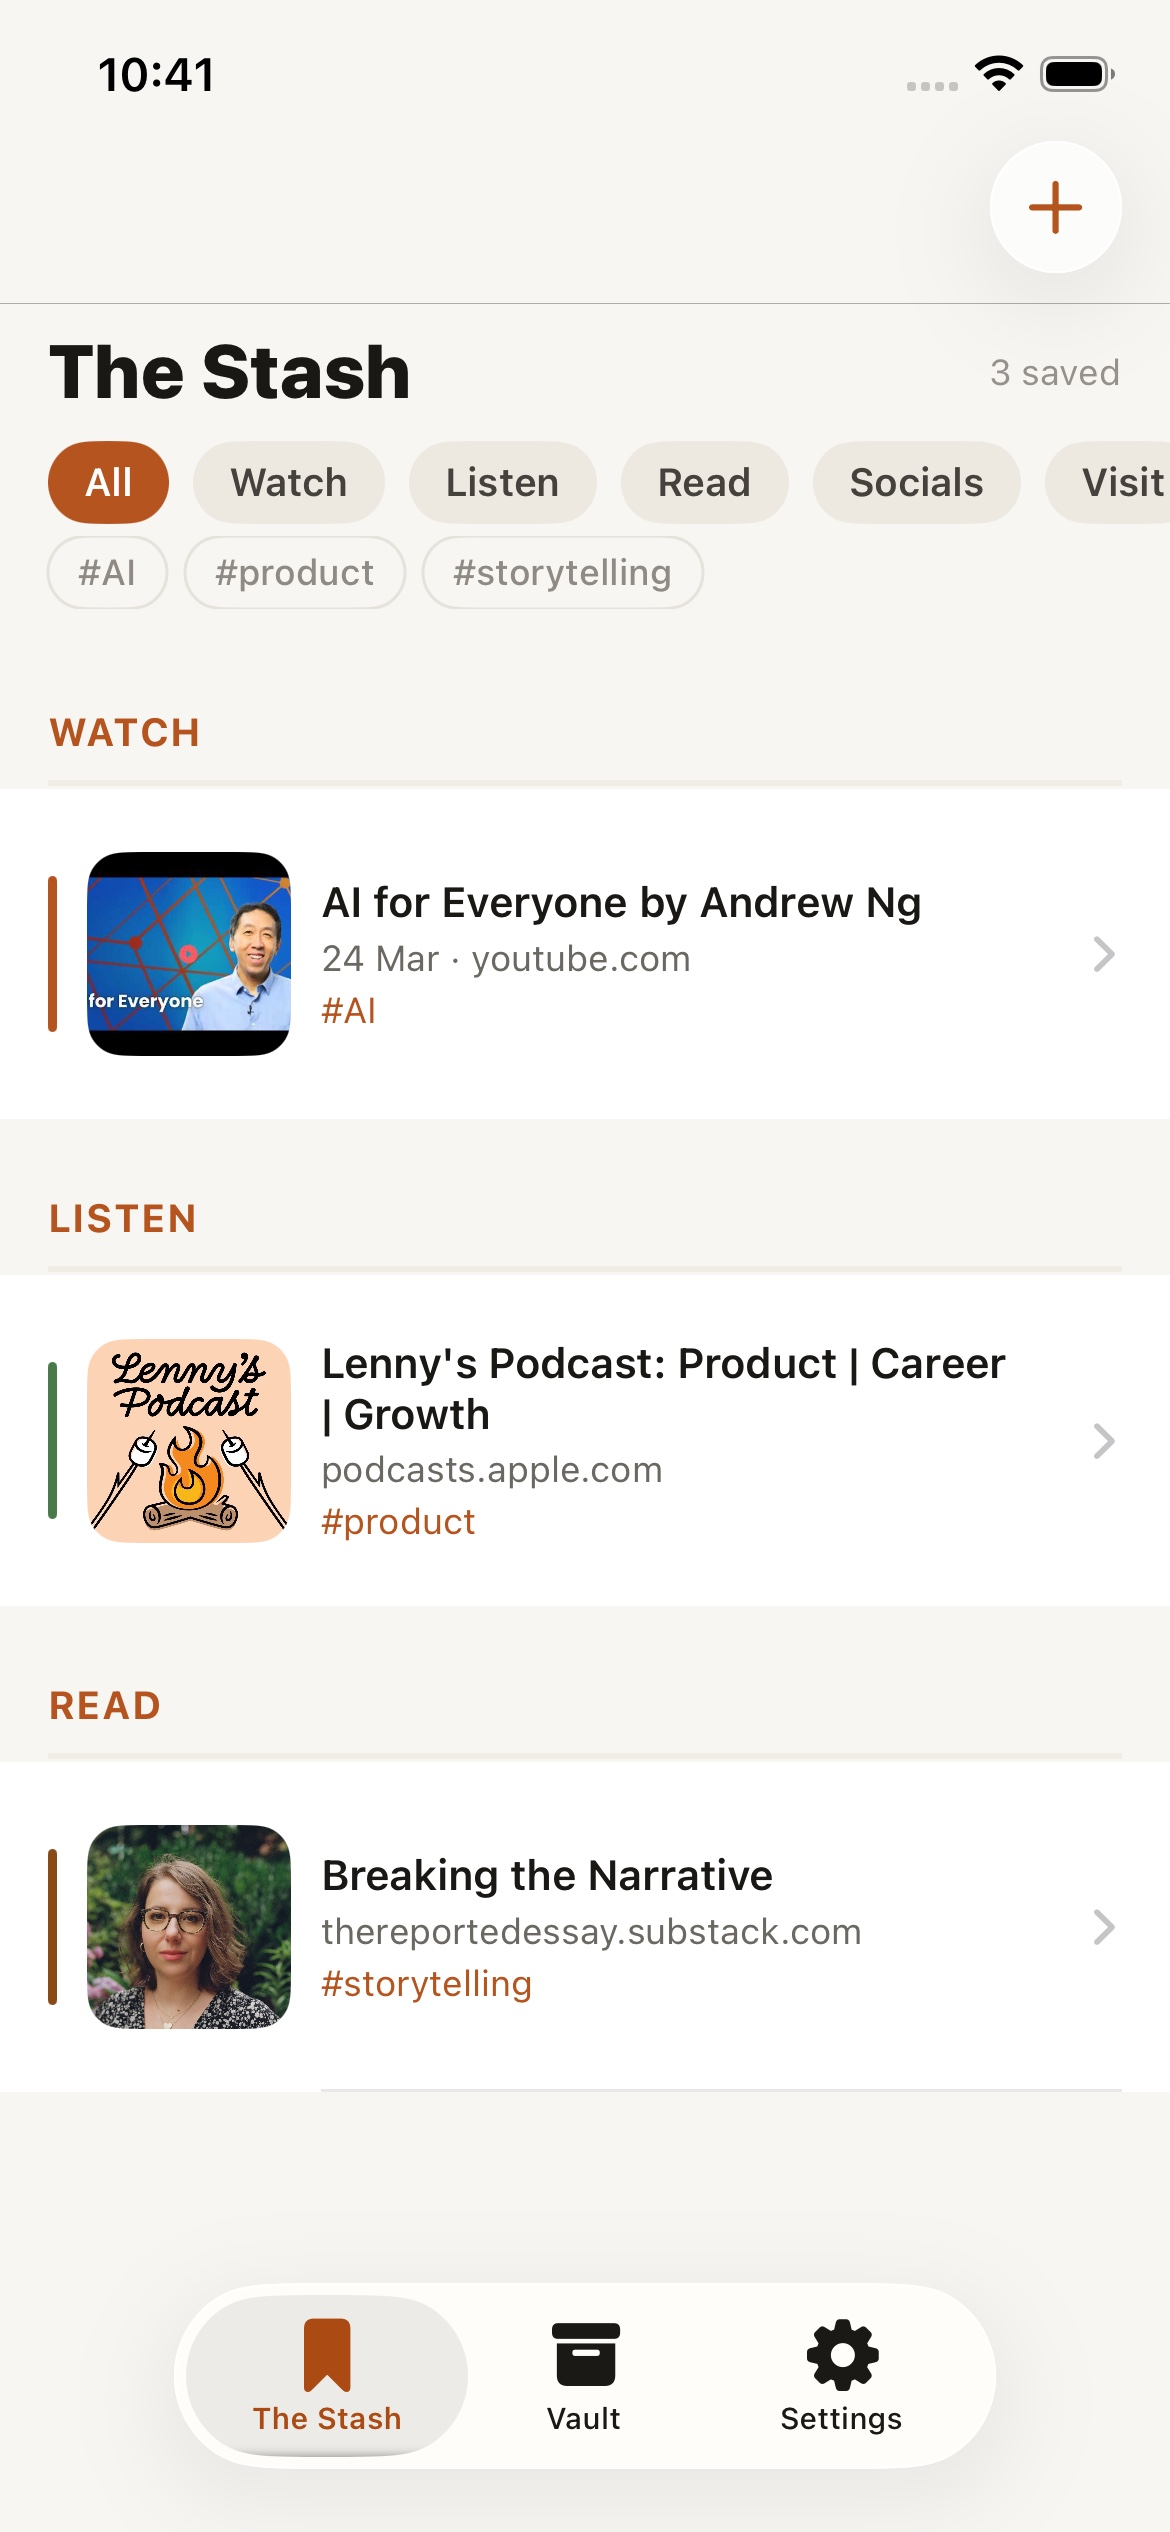
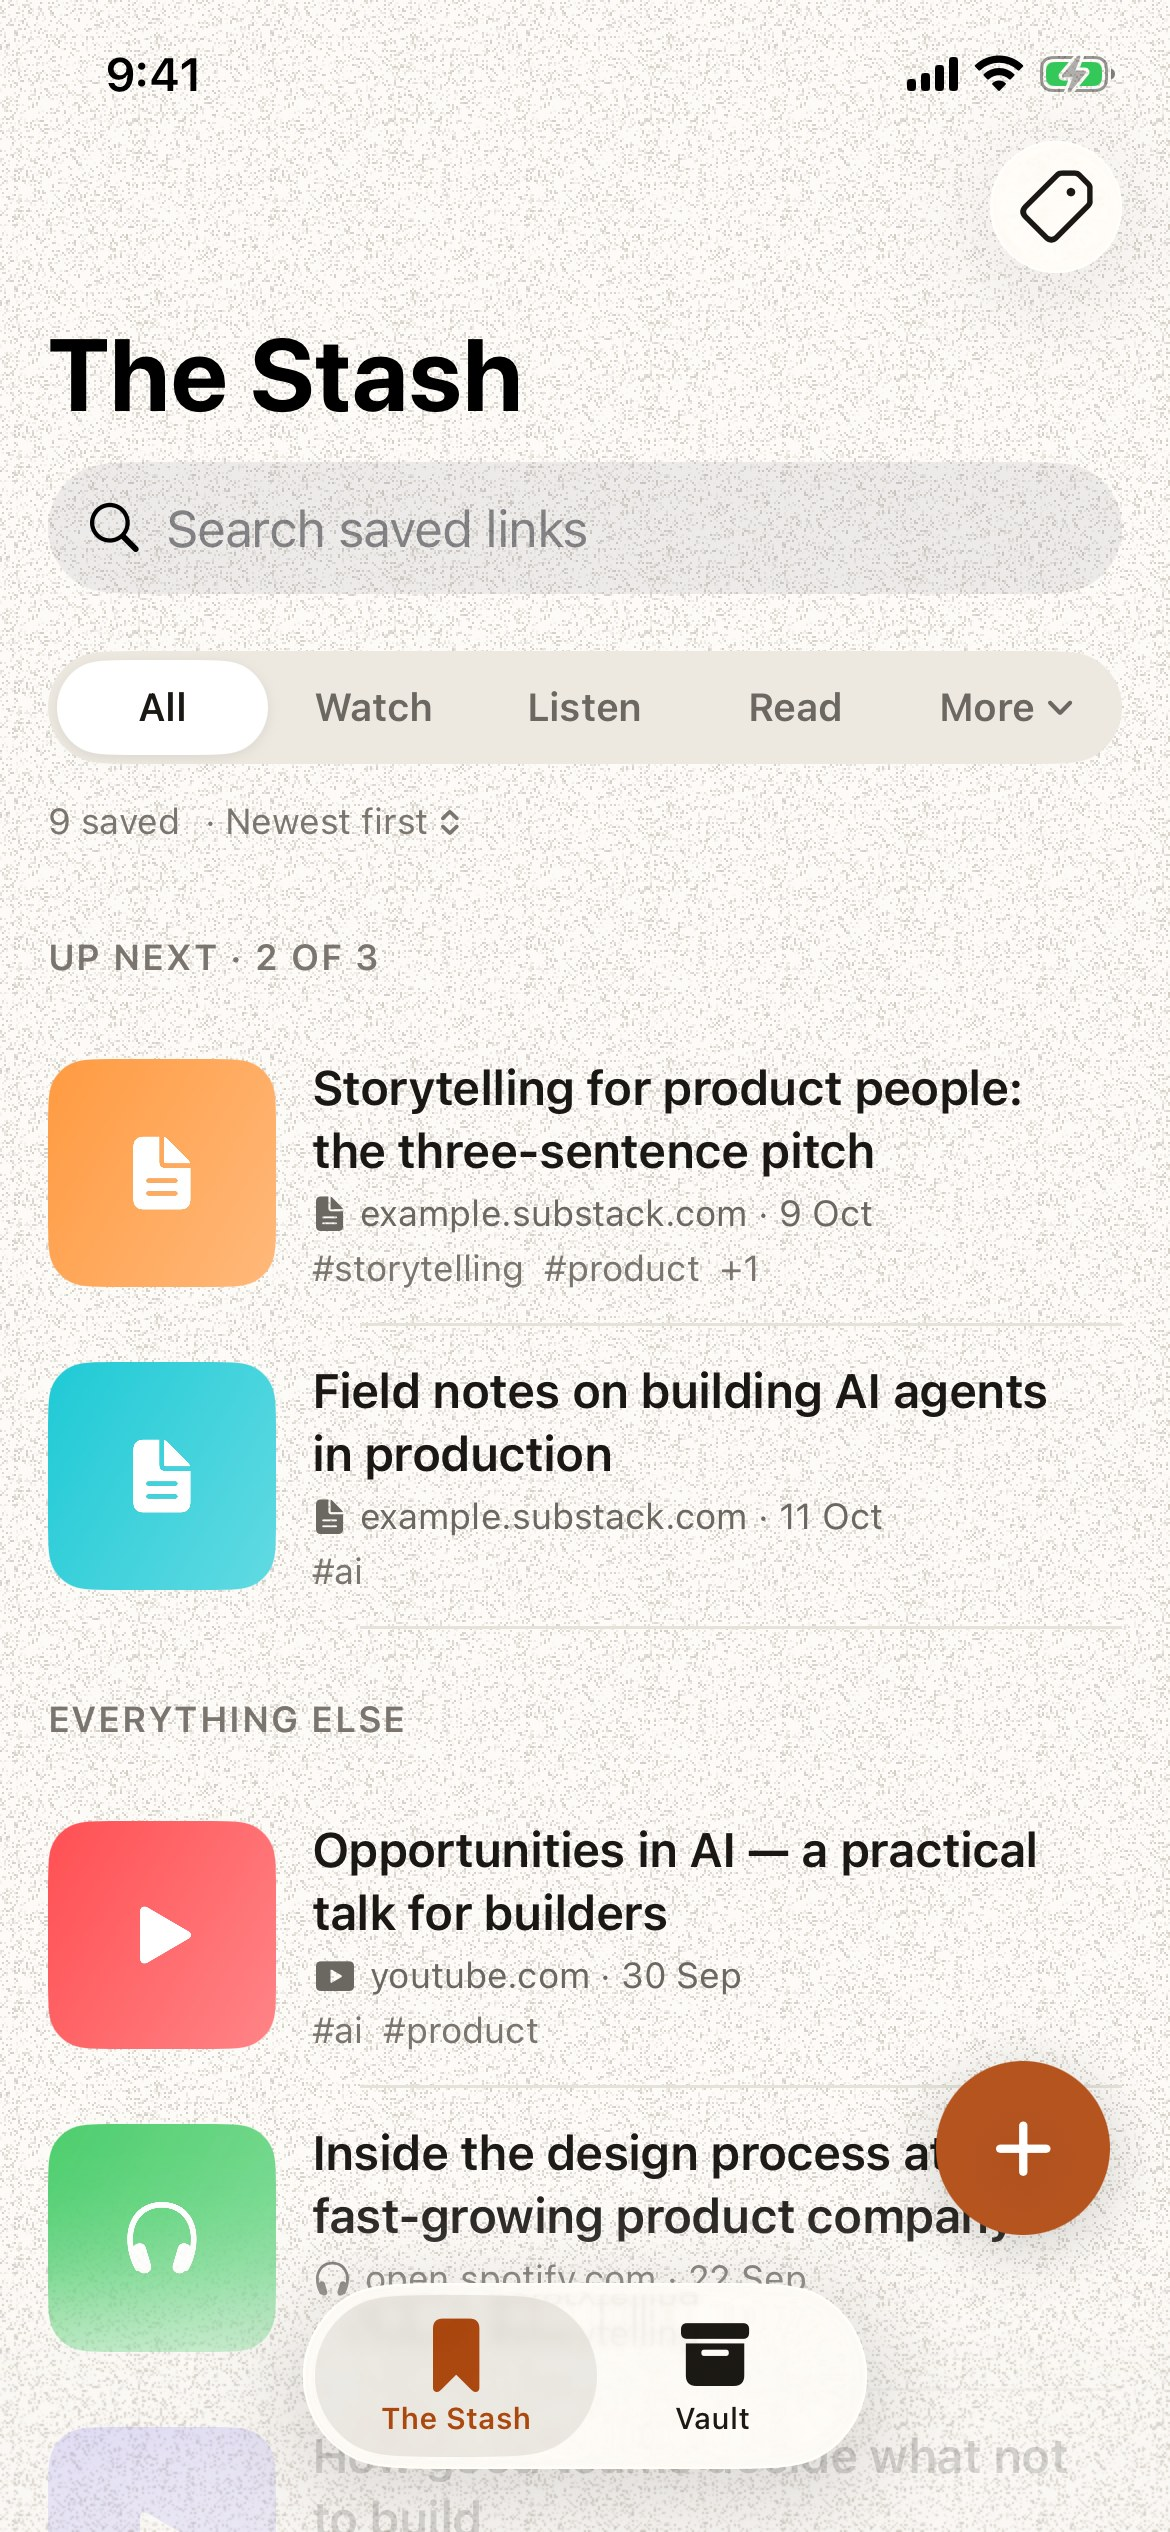
Refresh README screenshots and text for the new UI
New screenshots (list with Up next, Surprise me, detail, Vault, edit) and a
README covering search, Up next, Surprise me and the sort toggle; the old
Settings/daily recall screenshot and text are removed.

diff --git a/README.md b/README.md
@@ -1,25 +1,27 @@
 # Stash
 
-Save any link — a podcast, a YouTube video, a Spotify audiobook, a restaurant, a LinkedIn or X post — with its title, image, and a preview of the content pulled in automatically, so you don't forget about it. Tag it, edit it, mark it done once you've actually checked it out, and let Stash nudge you to revisit it later. Add links from inside the app, or straight from the Share Sheet in Safari/YouTube/Instagram/etc.
+Save any link — a podcast, a YouTube video, a Spotify audiobook, a restaurant, a LinkedIn or X post — with its title, image, and a preview of the content pulled in automatically, so you don't forget about it. Tag it, pin the few things you want to get to next, search it, mark it done once you've actually checked it out, and let Stash pick something for you when you can't decide. Add links from inside the app, or straight from the Share Sheet in Safari/YouTube/Instagram/etc.
 
 <p>
-  <img src="screenshots/the-stash-mix.jpg" width="260" alt="The Stash list showing a Watch, Listen, and Read item together, each with its own tag — AI, product, and storytelling">
-  <img src="screenshots/link-detail.png" width="260" alt="Link detail view showing tags and a Vaulted badge">
-  <img src="screenshots/vault.png" width="260" alt="The Vault, filtered by tag">
+  <img src="screenshots/the-stash-mix.jpg" width="260" alt="The Stash on a warm paper background: a one-row type filter, an Up next section with two pinned links, and the rest of the list below">
+  <img src="screenshots/surprise-me.jpg" width="260" alt="Surprise me: with the #product tag filter on, a card showing a random unfinished link with that tag, with Show another, Open and Add to Up next">
+  <img src="screenshots/link-detail.jpg" width="260" alt="Link detail with its tags, a single Open link button, an About section and a personal note">
 </p>
 <p>
-  <img src="screenshots/edit-link.png" width="260" alt="Edit Link sheet with tag chips and suggestions">
-  <img src="screenshots/settings.png" width="260" alt="Settings screen configuring daily recall">
+  <img src="screenshots/vault.jpg" width="260" alt="The Vault, holding links marked done">
+  <img src="screenshots/edit-link.jpg" width="260" alt="Edit Link sheet with tag chips and suggestions">
 </p>
 
-*(Screenshots use public sample links — Lenny's Podcast, Planet Money, Andrew Ng's "AI for Everyone," and a Substack essay on narrative structure — not real personal data.)*
+*(Screenshots use generated sample links, not real personal data.)*
 
 ## How it works
 
-- **The Stash / Vault** tabs — your saved links, split by whether you've gotten to them yet. Marking a link done moves it to the Vault — a keep pile, not a delete pile. Filter by category (Watch / Listen / Read / Socials / Visit / Buy / Other) with the chip row up top; the header shows a live count of what's visible.
-- **Add a link** (+ button, or the Share Sheet from any app) — Stash fetches a title and thumbnail automatically. YouTube and X/Twitter go through their own public oEmbed APIs for accurate titles and (for X) the actual post text; everything else uses Apple's LinkPresentation framework, the same engine behind Messages/Safari link previews. LinkedIn/Instagram/Facebook posts get their poster's name as the title and, best-effort, a caption preview. Category is guessed from the URL/domain and always editable. A publish date is picked up where the source exposes one (reliable for X; best-effort elsewhere via common meta tags).
+- **The Stash / Vault** tabs — your saved links, split by whether you've gotten to them yet. Marking a link done moves it to the Vault — a keep pile, not a delete pile. Filter by type with the one-row picker up top (All / Watch / Listen / Read, with Socials / Visit / Buy / Other under *More*); a quiet count shows what's visible, and a small menu next to it switches between newest-first and oldest-first.
+- **Search** — pull down for the search field; it looks across titles, sites, tags, notes and the fetched preview text, and works together with the type and tag filters.
+- **Up next** — pin up to three links (swipe right on a row, long-press it, or use the **⋯** menu on a link) and they sit in their own section at the top of The Stash. Pin a fourth and the oldest pin quietly drops out; marking a link done un-pins it.
+- **Surprise me, per tag** — filter by a tag and a small dice appears next to the active tag. Tap it for a random unfinished link with that tag, with *Show another*, *Open* and *Add to Up next*. It's hidden until you're already looking at a tag, so there's no extra clutter.
+- **Add a link** (the + button, or the Share Sheet from any app) — Stash fetches a title and thumbnail automatically. YouTube and X/Twitter go through their own public oEmbed APIs for accurate titles and (for X) the actual post text; everything else uses Apple's LinkPresentation framework, the same engine behind Messages/Safari link previews. LinkedIn/Instagram/Facebook posts get their poster's name as the title and, best-effort, a caption preview. Category is guessed from the URL/domain and always editable. A publish date is picked up where the source exposes one (reliable for X; best-effort elsewhere via common meta tags).
 - **Share Sheet**: tap *Share* from inside YouTube/Instagram/Safari/etc. and send straight to Stash — no need to copy/paste a URL. Handles both proper link shares and apps (like YouTube) that share plain text with a URL embedded in it.
-- **Tap a link** to see the full preview — the image itself is the tap target to open the link (Safari/the relevant app) — plus any fetched post-preview text, your own note, tags, and category/done controls.
-- **Edit anything** — tap the pencil icon on a link's detail view to fix up the title, category, note, or tags after the fact. Changes only apply on Save, so Cancel always discards them, no matter what you typed.
-- **Tags** are free-form and cut across categories and source apps — tag a podcast episode and a saved article both "product" if that's how you think about them. Add tags from the Edit sheet (previously-used tags show up as one-tap suggestions); the list view gets a second filter row for them, alongside the existing category filter, so you can slice by category and tag together.
-- **Daily recall**: from the Settings tab, turn on a once-a-day local notification tied to one tag and one time of day. The notification itself is a generic teaser ("Time to revisit your product stash") — no content is baked into it — and tapping it picks a genuinely random saved link under that tag at open time, so it's always fresh even if what's tagged has changed since the notification was scheduled.
+- **Tap a link** to see the full preview with a single **Open link** button (the image opens it too), the fetched preview text, your own note and tags. Edit, Add to Up next, Mark done and Delete live in the **⋯** menu.
+- **Edit anything** — choose **Edit** from a link's **⋯** menu to fix up the title, category, note, or tags after the fact. Changes only apply on Save, so Cancel always discards them, no matter what you typed.
+- **Tags** are free-form and cut across categories and source apps — tag a podcast episode and a saved article both "product" if that's how you think about them. Add tags from the Edit sheet (previously-used tags show up as one-tap suggestions); the tag button in the list's toolbar filters by tag, and works together with the type picker.
